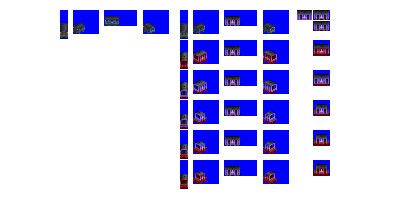
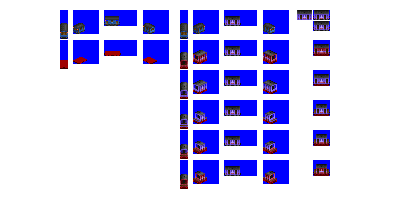
Change: sprites complete for NG tank car

Changed region(s): [[0.15, 0.18, 0.42, 0.36]]

diff --git a/src/vehicles/tank_cars.py b/src/vehicles/tank_cars.py
@@ -7,11 +7,12 @@ def main():
                              base_numeric_id=650,
                              gen=1,
                              subtype='A',
-                             track_type='NG')
+                             track_type='NG',
+                             sprites_complete=True)
 
     consist.add_unit(type=FreightCar,
                      vehicle_length=4,
-                     chassis='2_axle_filled_16px')
+                     chassis='4_axle_ng_16px')
 
     #--------------- pony ----------------------------------------------------------------------
     consist = TankCarConsist(roster='pony',
